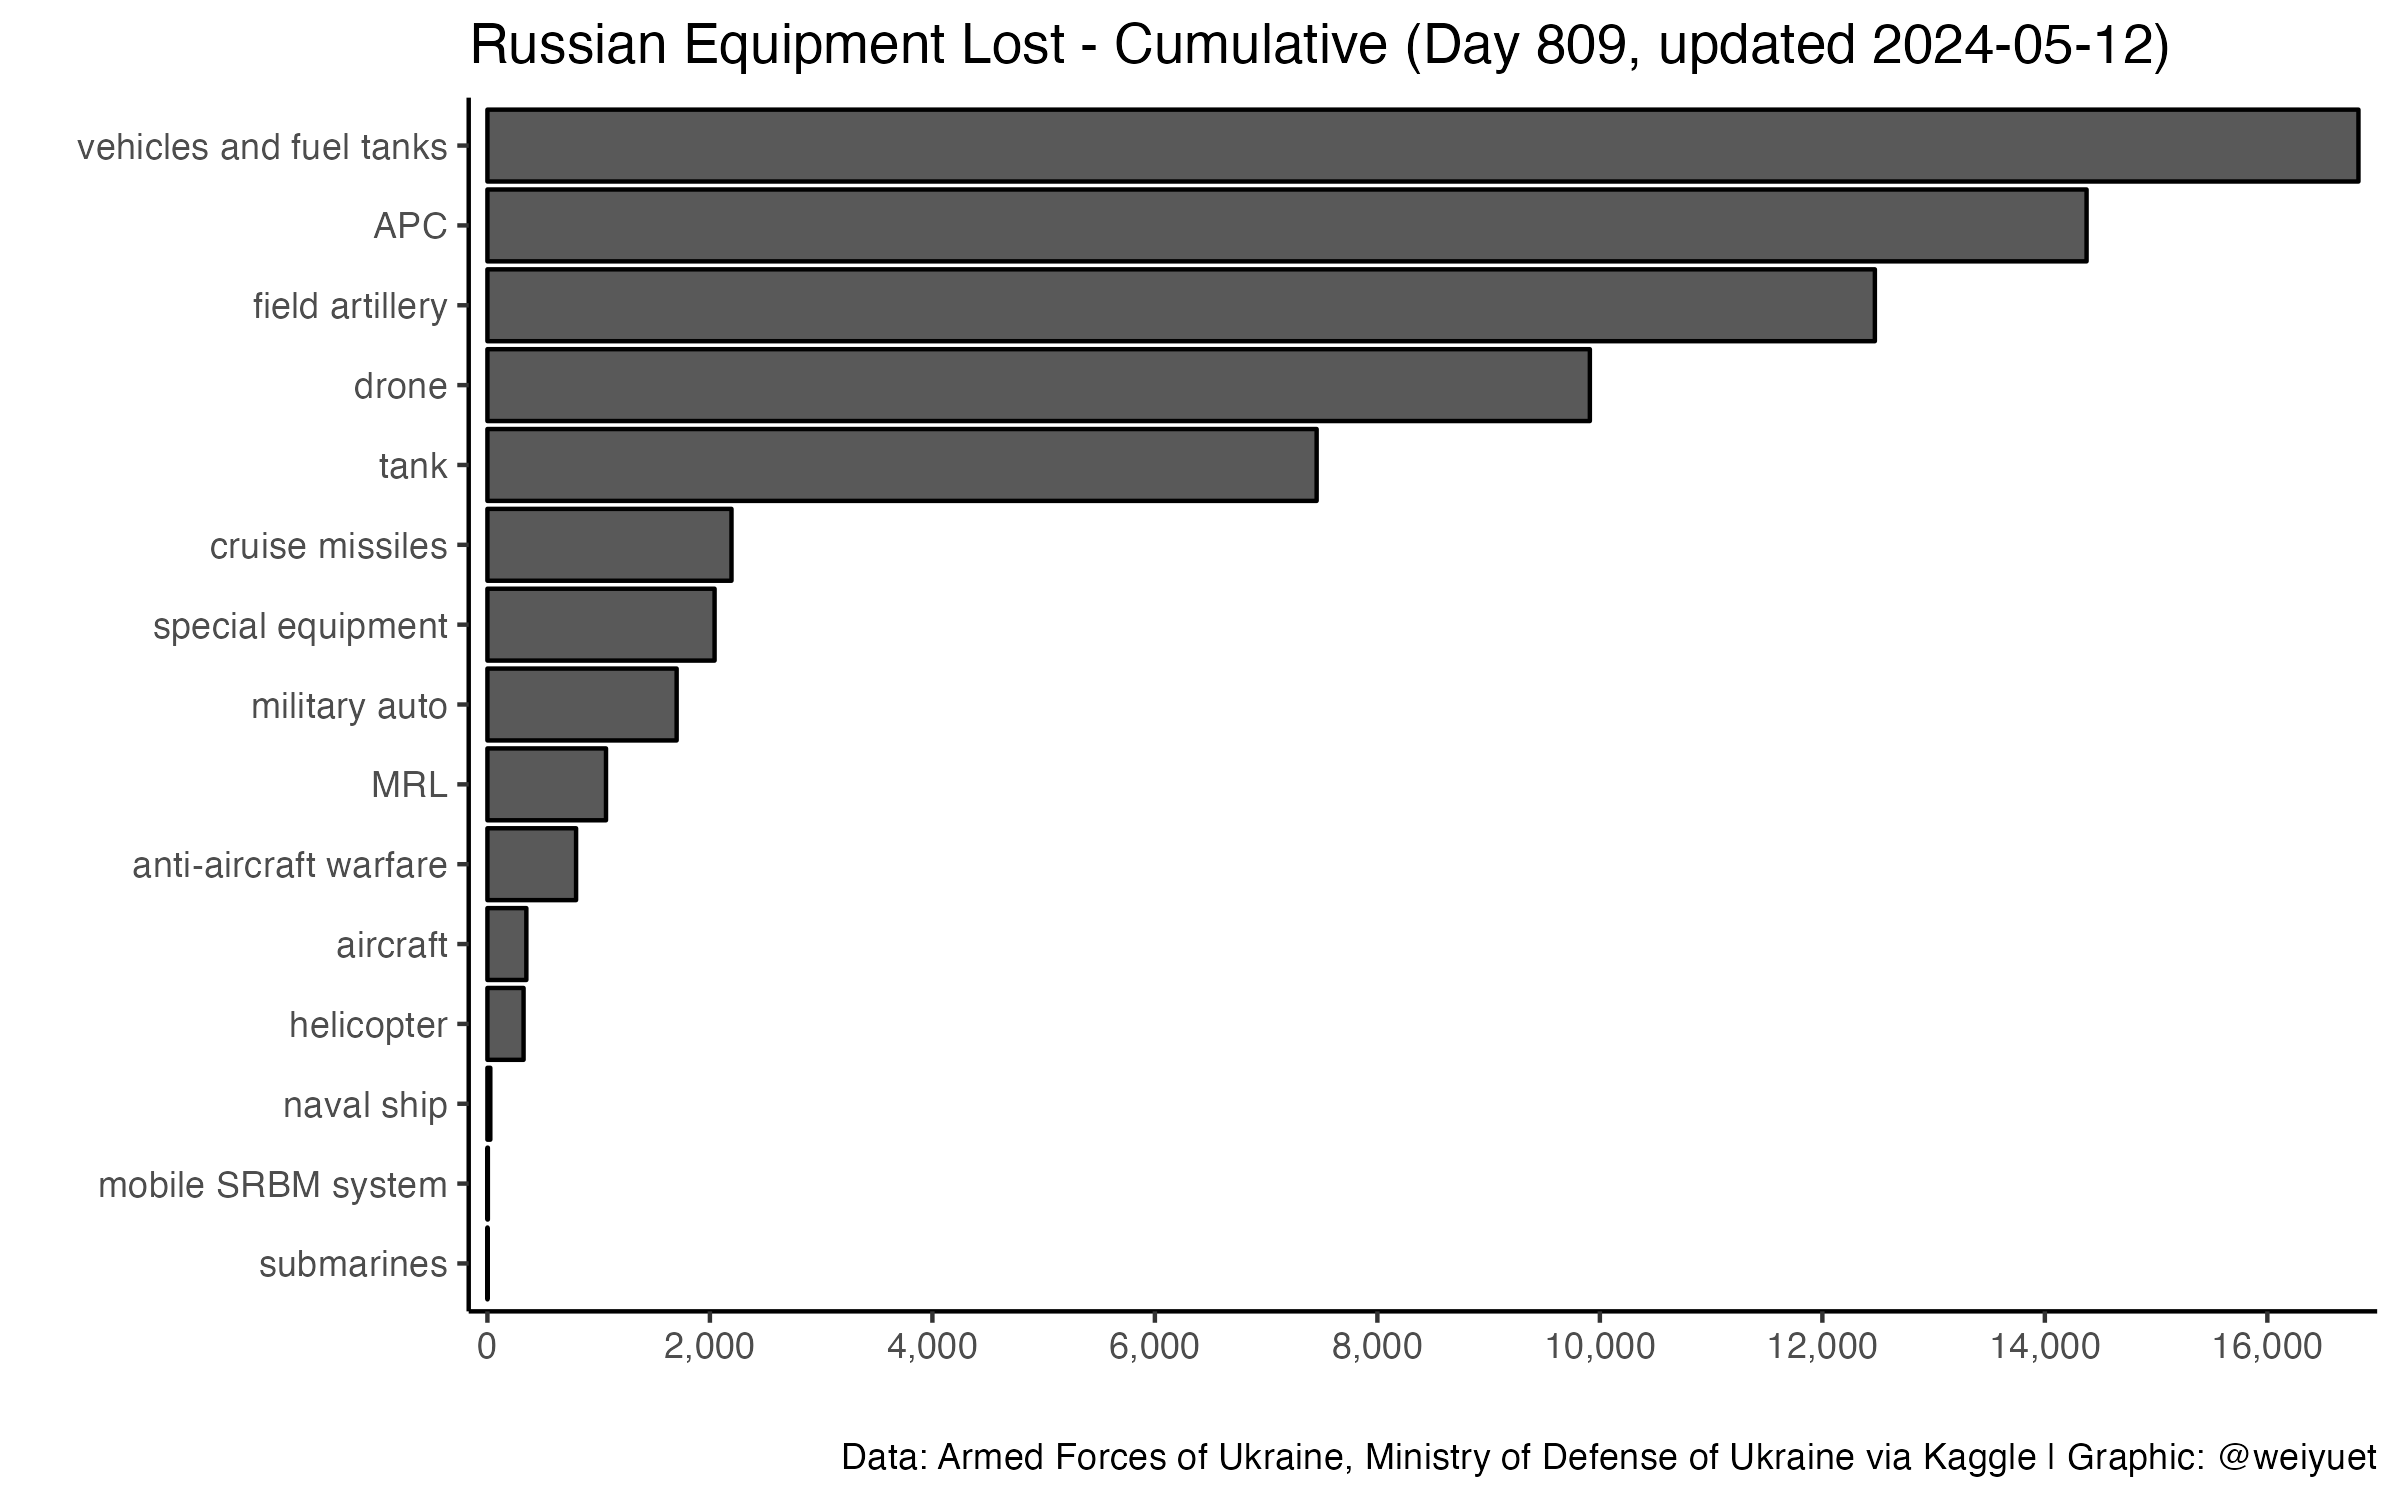
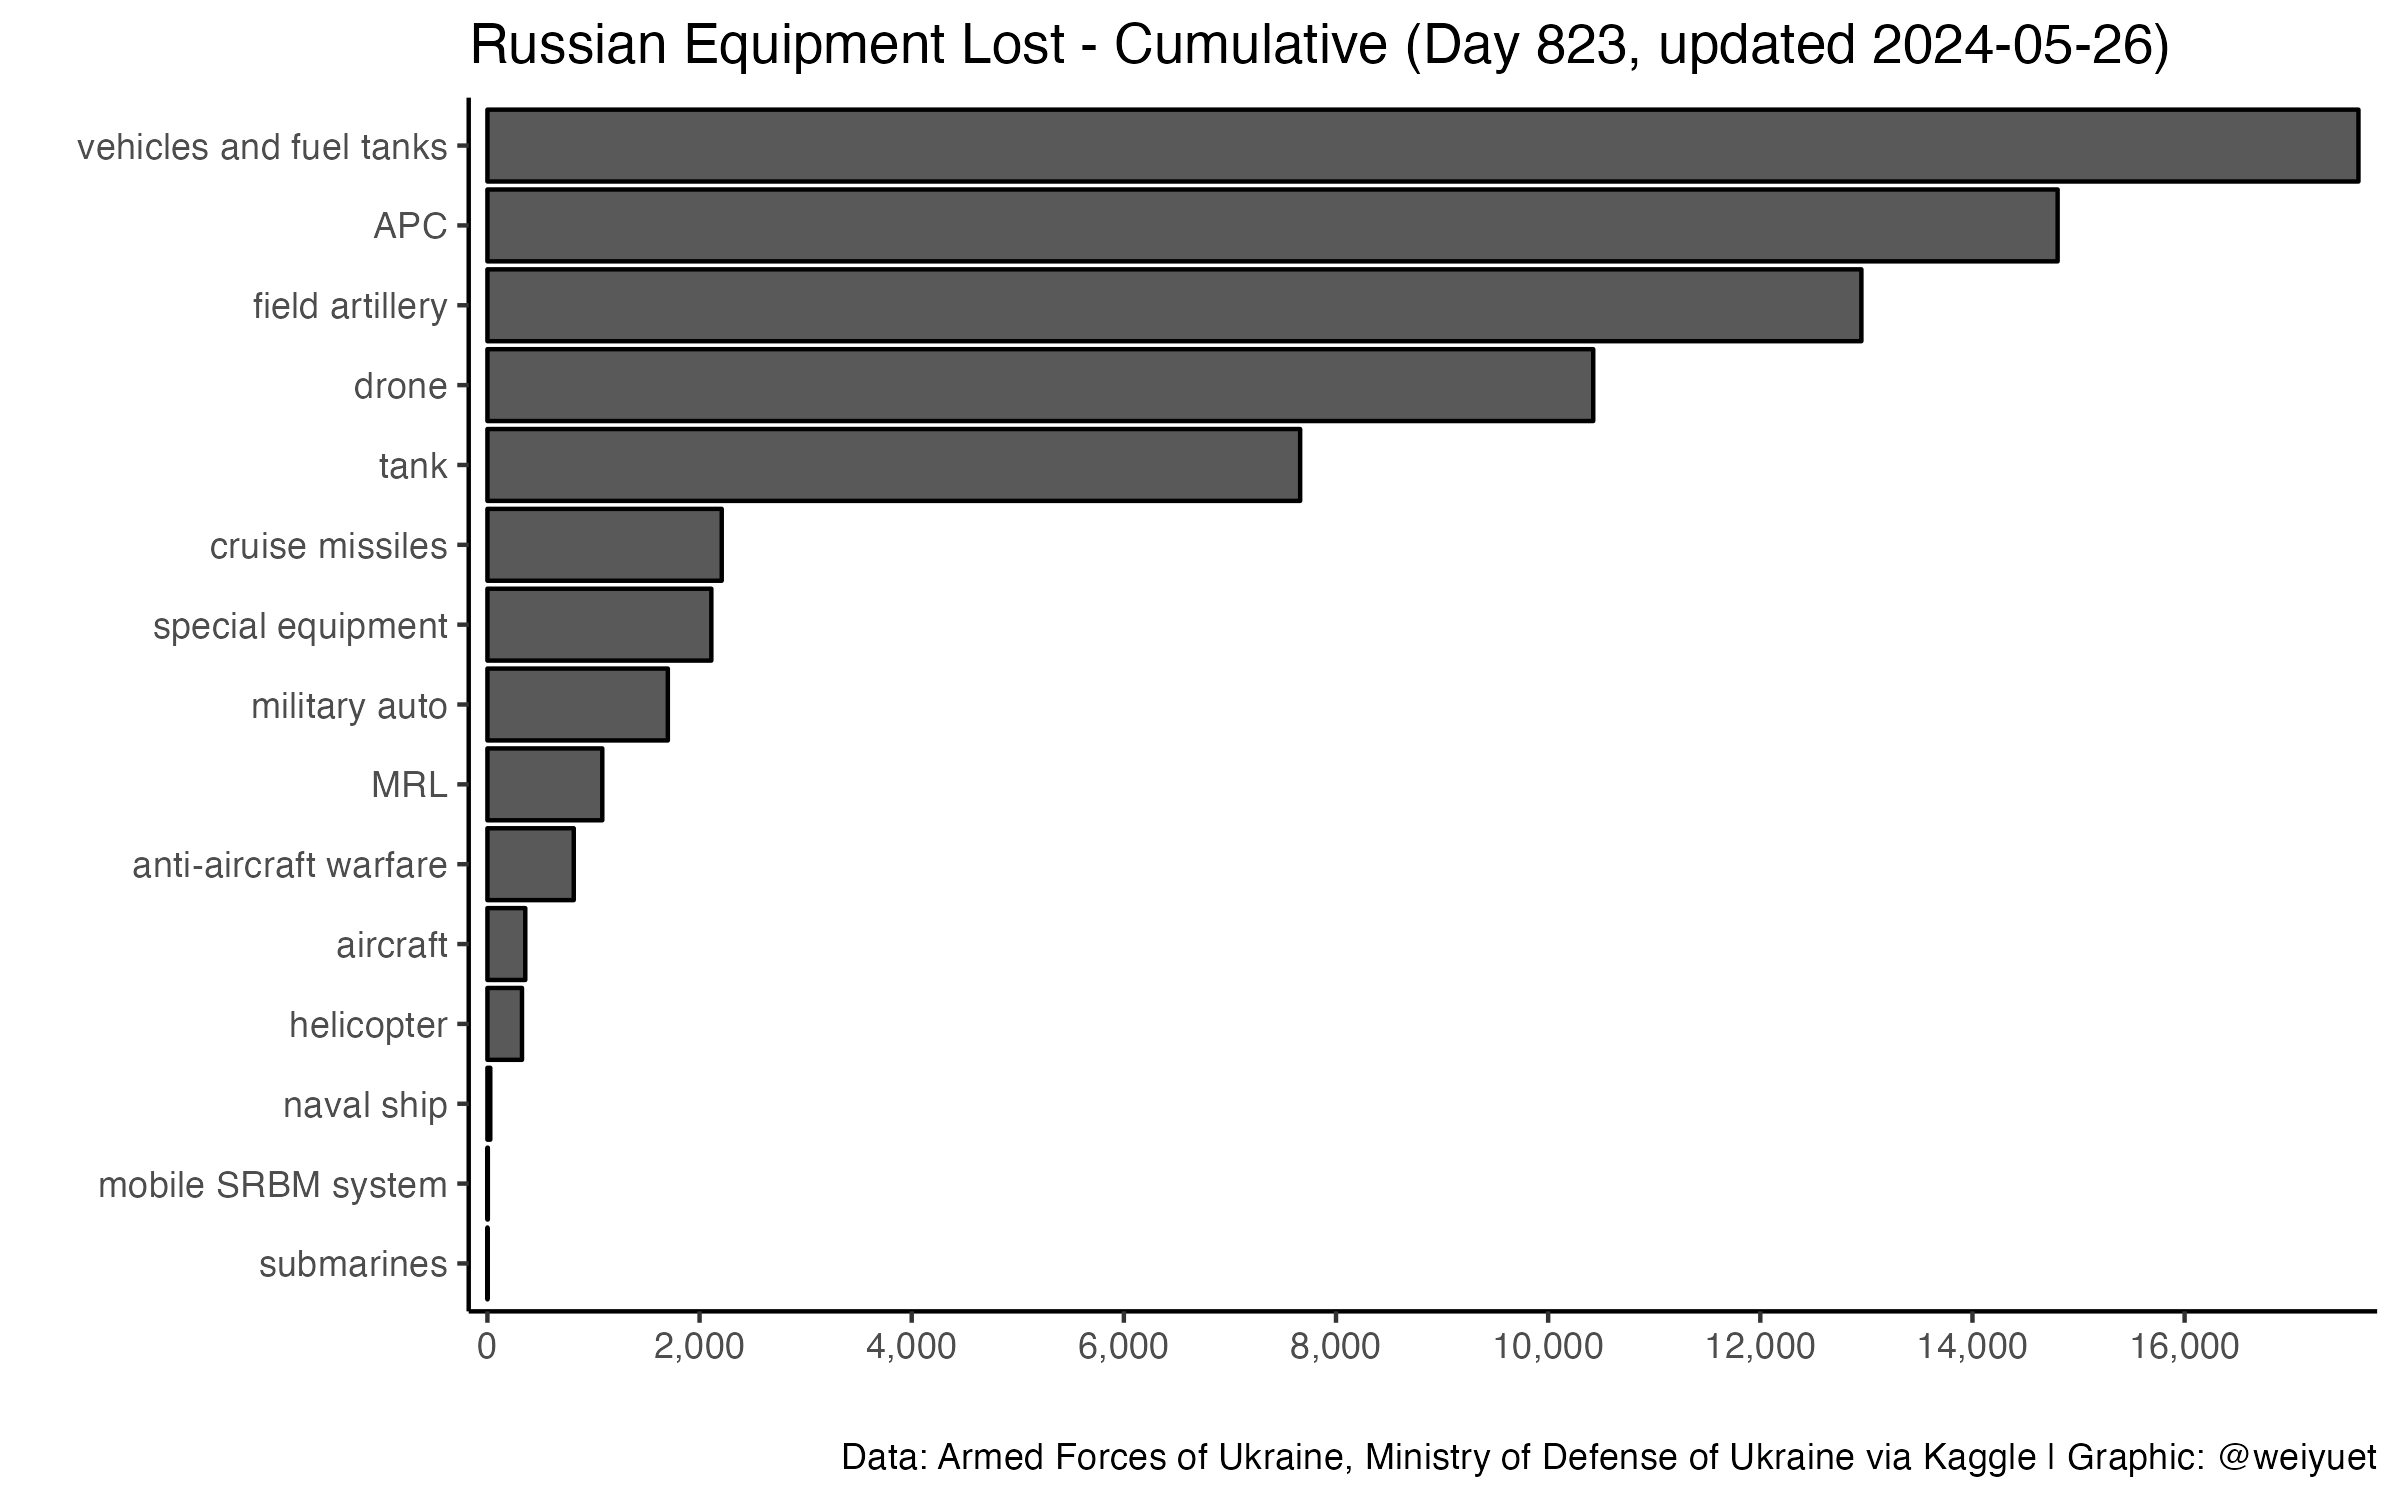
Updated 27 May

diff --git a/README.md b/README.md
@@ -6,7 +6,7 @@ Wong Wei Yuet 2022-05-26
 
   - War casualty data updated weekly from [`Petro Ivanyuk's Kaggle`](https://www.kaggle.com/datasets/piterfm/2022-ukraine-russian-war). All data is official and put together by `Petro`
 
-Updated: 2024-05-14
+Updated: 2024-05-27
 
 ## Summary of Conflict
 
